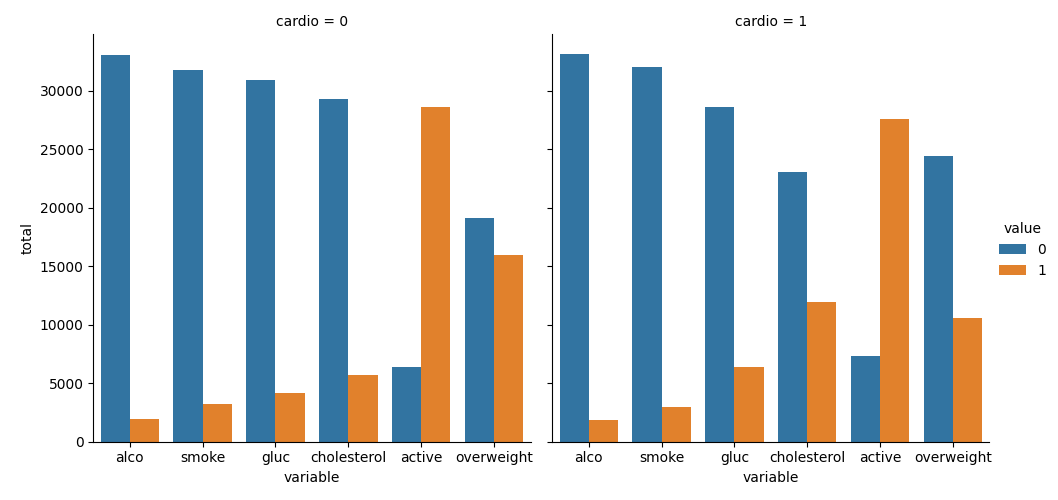
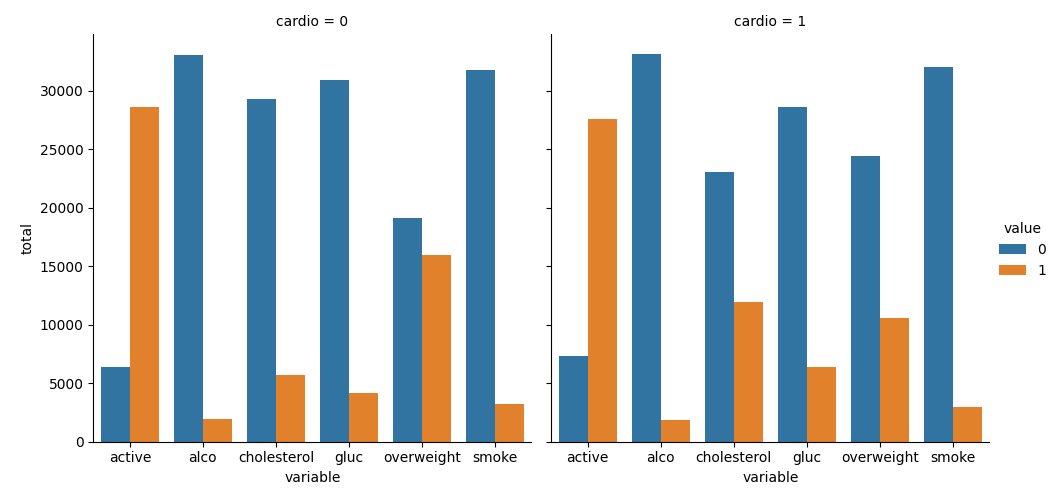
modified:   catplot.png new file:   heatmap.png modified:   medical_data_visualizer.py

diff --git a/medical_data_visualizer.py b/medical_data_visualizer.py
@@ -24,10 +24,10 @@ def draw_cat_plot():
 
     # Draw the catplot with 'sns.catplot()'
     df_cat['value'] = df_cat['value'].replace({1:'1', 0:'0'})
-    plot = sns.catplot(data=df_cat, x='variable', y='total', hue='value', kind='bar', col='cardio', order=['active', 'alco', 'cholesterol', 'gluc', 'overweight', 'smoke'])
+    categorical_plot = sns.catplot(data=df_cat, x='variable', y='total', hue='value', kind='bar', col='cardio', order=['active', 'alco', 'cholesterol', 'gluc', 'overweight', 'smoke'])
 
     # Get the figure for the output
-    fig = plot.figure
+    fig = categorical_plot.figure
 
     # Do not modify the next two lines
     fig.savefig('catplot.png')
@@ -38,22 +38,19 @@ def draw_cat_plot():
 def draw_heat_map():
     # Clean the data
     df_heat = df.loc[(df['ap_lo'] <= df['ap_hi']) & (df['height'] >= df['height'].quantile(0.025)) & (df['height'] <= df['height'].quantile(0.975)) & (df['weight'] >= df['weight'].quantile(0.025))& (df['weight'] <= df['weight'].quantile(0.975))]
-
+    
     # Calculate the correlation matrix
-#    corr = None
-
+    corr = df_heat.corr()
+    
     # Generate a mask for the upper triangle
-#    mask = None
-
-
+    mask = np.triu(corr.to_numpy().reshape((14, 14)), k=0)
 
     # Set up the matplotlib figure
-#    fig, ax = None
+    fig, ax = fig, ax = plt.subplots()
 
     # Draw the heatmap with 'sns.heatmap()'
-
-
+    heat_map = sns.heatmap(corr, mask=mask)
 
     # Do not modify the next two lines
-#    fig.savefig('heatmap.png')
-#    return fig
+    fig.savefig('heatmap.png')
+    return fig
